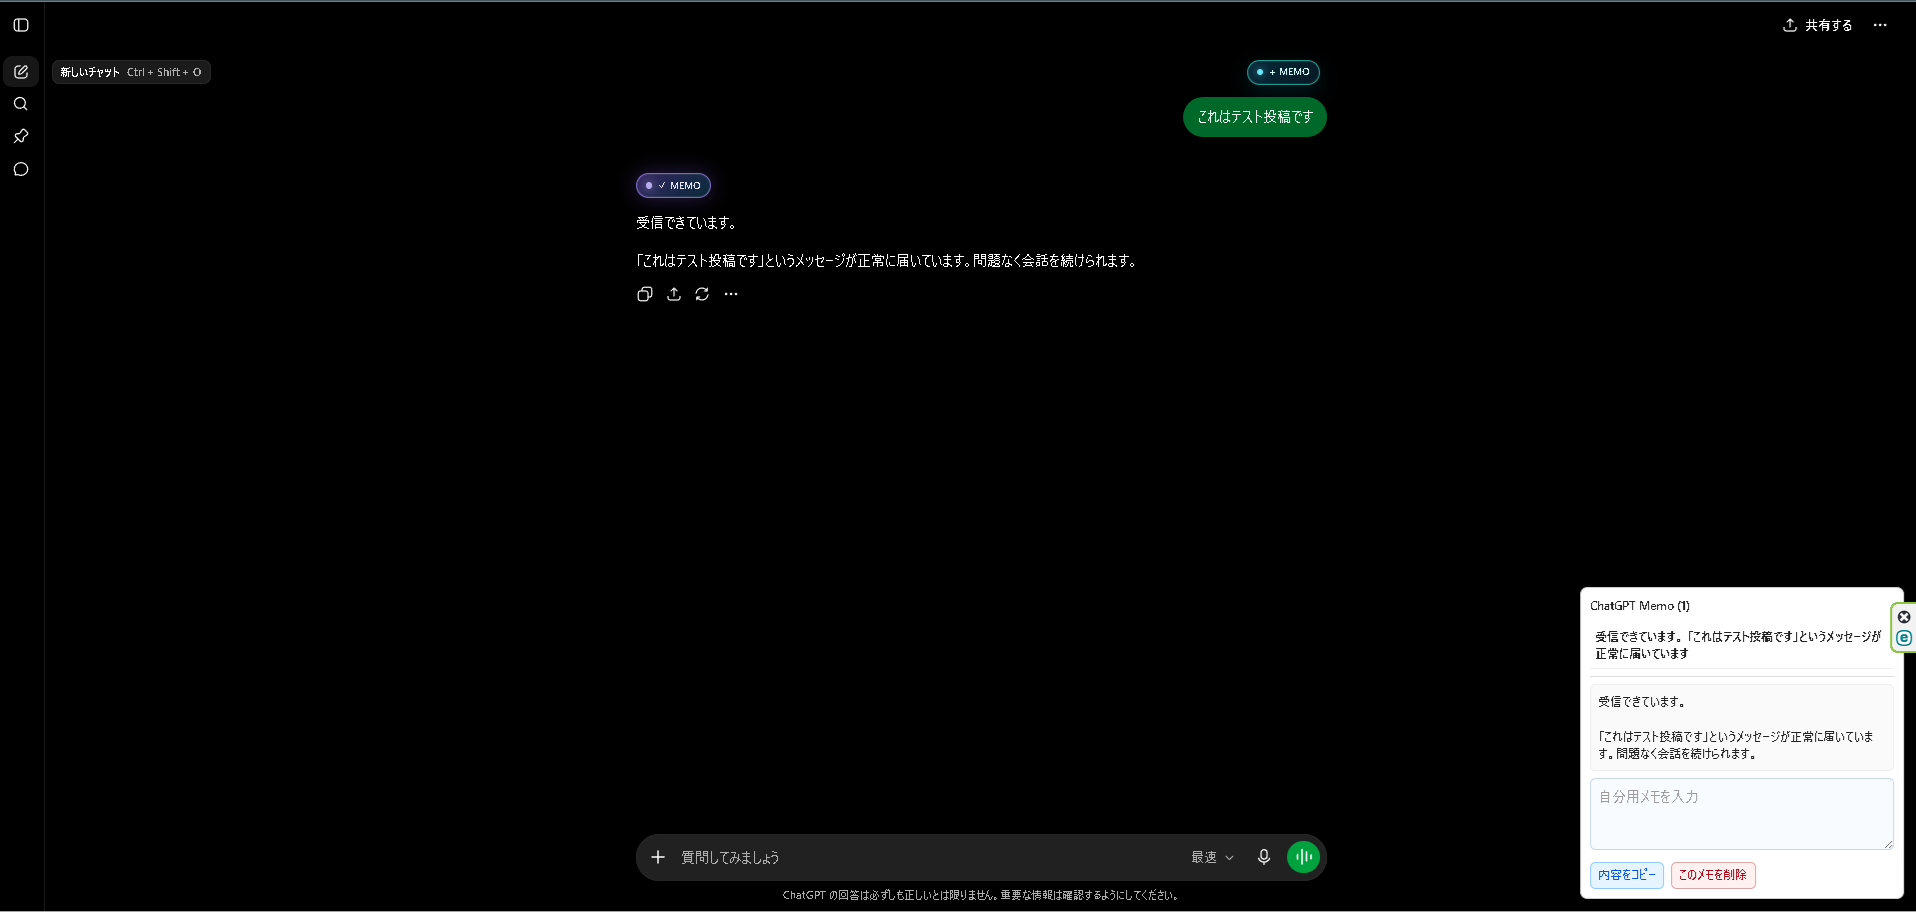
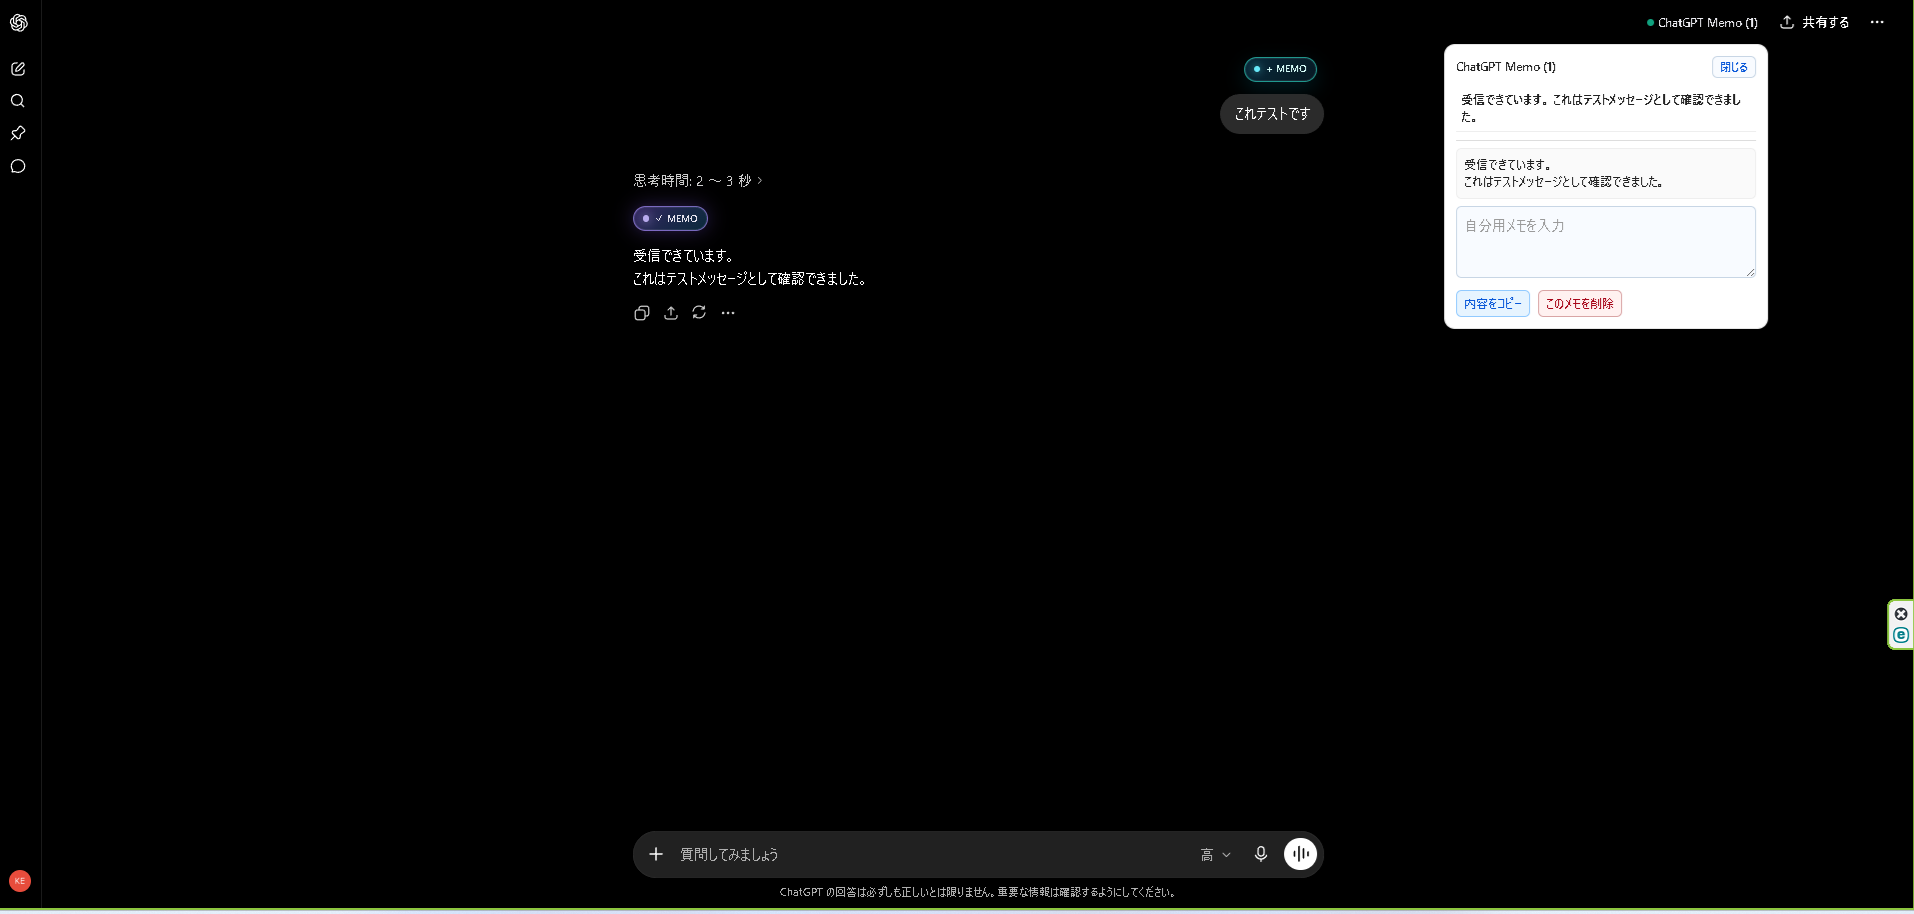
ダークモードで見づらくなる問題解消

diff --git a/content.css b/content.css
@@ -89,6 +89,8 @@
 }
 
 .cg-memo-header-host {
+  --cg-memo-header-color: #2f2f2f;
+  --cg-memo-header-hover-bg: rgba(0, 0, 0, .06);
   position: relative;
   flex: 0 0 auto;
   display: inline-flex;
@@ -117,7 +119,7 @@
   font-weight: 500;
   line-height: 1;
   background: transparent;
-  color: #2f2f2f;
+  color: var(--cg-memo-header-color);
   white-space: nowrap;
 }
 
@@ -130,12 +132,24 @@
 }
 
 .cg-memo-header-button:hover {
-  background: rgba(0, 0, 0, .06);
+  background: var(--cg-memo-header-hover-bg);
 }
 
 .cg-memo-header-button:focus-visible {
   outline: 2px solid #91caff;
   outline-offset: 2px;
+}
+
+@media (prefers-color-scheme: dark) {
+  .cg-memo-header-host {
+    --cg-memo-header-color: #ececf1;
+    --cg-memo-header-hover-bg: rgba(255, 255, 255, .1);
+  }
+}
+
+:is(html.dark, body.dark, [data-theme="dark"], [data-mode="dark"]) .cg-memo-header-host {
+  --cg-memo-header-color: #ececf1;
+  --cg-memo-header-hover-bg: rgba(255, 255, 255, .1);
 }
 
 .cg-memo-panel {